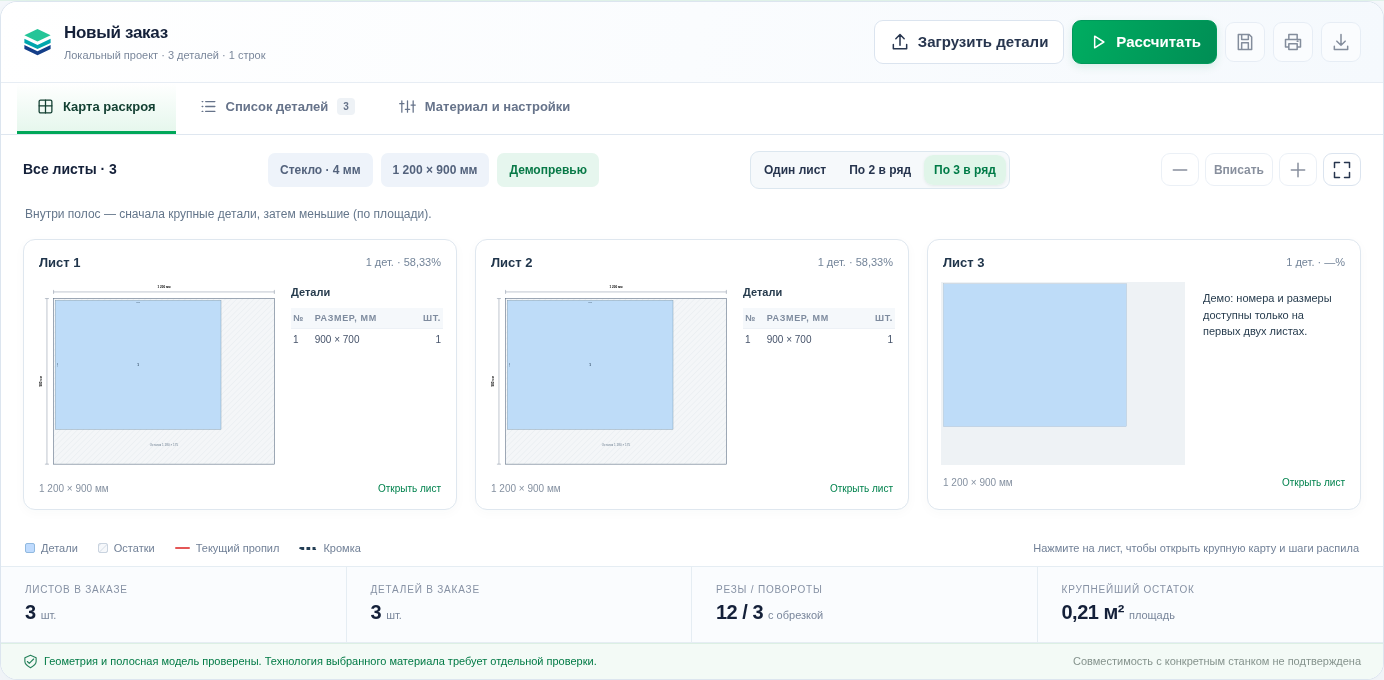
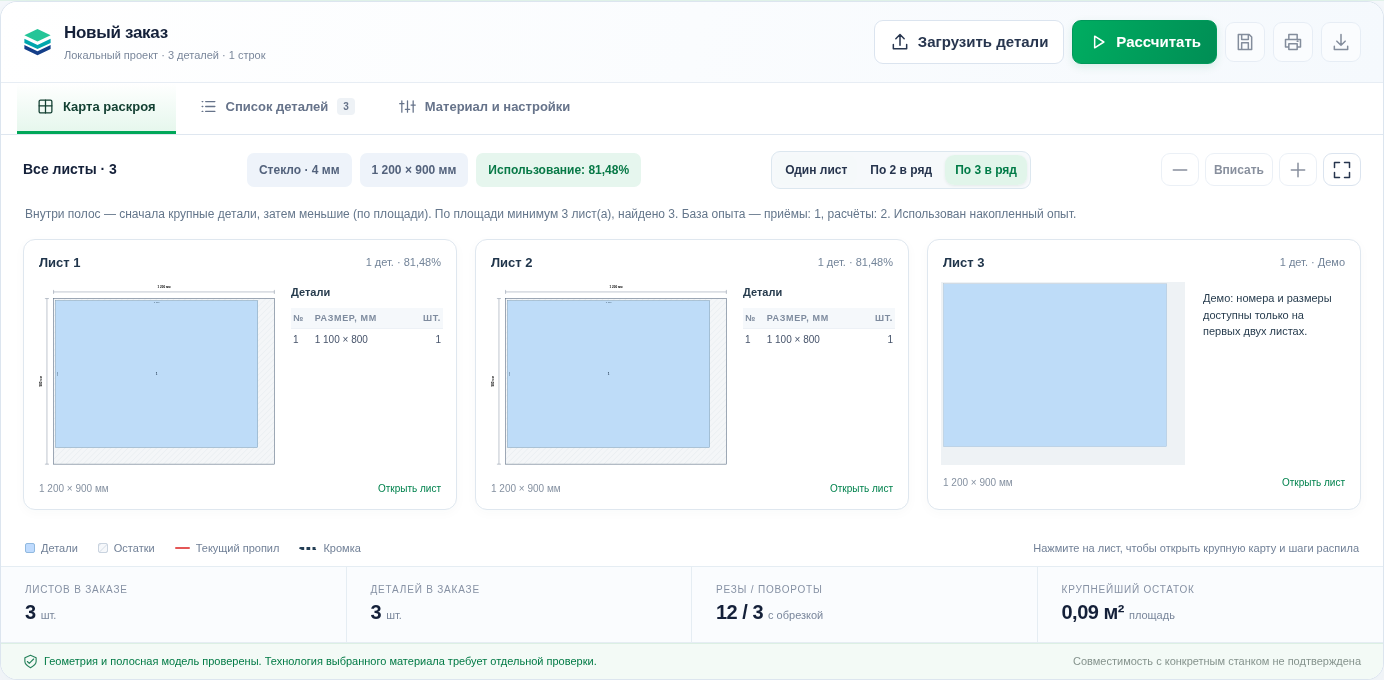
Add local verified experience books, transferable search moves and training scripts

diff --git a/listpro-core/web/index.html b/listpro-core/web/index.html
@@ -345,6 +345,83 @@ function pack(p,options={}){
 module.exports={pack,checkInput};
 
 },
+"src/cutting-experience.js":function(module,exports,require){
+'use strict';
+const {fromTree,buildRawLayout}=require('./deferred-strip-patterns'),{verifyDeferred}=require('./deferred-strip-search'),{estimateSheets}=require('./sheet-area-estimate'),{searchDeferredMargins}=require('./deferred-margin-search');
+const VERSION=1,PROFILE='deferred-held-strip-v1';
+const empty=()=>({version:VERSION,profile:PROFILE,solves:0,patterns:[],recipes:[],books:[]});
+function features(p){const area=(p.sheetW-2*p.trim)*(p.sheetH-2*p.trim),n=p.pieces.reduce((s,a)=>s+a.q,0);return [p.sheetW/p.sheetH,n,p.pieces.reduce((s,a)=>s+a.l*a.w*a.q,0)/area, p.pieces.reduce((s,a)=>s+Math.max(a.l/a.w,a.w/a.l)*a.q,0)/n];}
+function similarity(a,b){return a.reduce((s,v,i)=>s+Math.abs(v-b[i])/Math.max(1,Math.abs(v),Math.abs(b[i])),0)/a.length;}
+function safePattern(n,depth=0,counter={n:0}){
+ if(!n||depth>32||++counter.n>10000)throw Error('Invalid experience pattern');
+ if(n.leaf){if(![n.l,n.w].every(x=>Number.isFinite(x)&&x>0&&x<=20000)||typeof n.rotated!=='boolean')throw Error('Invalid experience leaf');return {leaf:true,l:n.l,w:n.w,rotated:n.rotated};}
+ if(!['H','V'].includes(n.axis)||!Array.isArray(n.children)||!n.children.length||n.children.length>2500)throw Error('Invalid experience branch');
+ return {axis:n.axis,children:n.children.map(c=>safePattern(c,depth+1,counter))};
+}
+function normalize(value){
+ if(!value||value.version!==VERSION||value.profile!==PROFILE)return empty();
+ const bank=empty();bank.solves=Number.isSafeInteger(value.solves)&&value.solves>=0?value.solves:0;
+ for(const r of (Array.isArray(value.patterns)?value.patterns:[]).slice(0,128))try{const pattern=safePattern(r.pattern);bank.patterns.push({pattern,uses:Math.min(1000000,Math.max(1,Number(r.uses)||1))});}catch{}
+ bank.recipes=(Array.isArray(value.recipes)?value.recipes:[]).filter(r=>r.move==='wide-48'&&Array.isArray(r.features)&&r.features.length===4&&r.features.every(Number.isFinite)).slice(0,64).map(r=>({move:r.move,features:r.features,uses:Math.max(1,Number(r.uses)||1)}));
+ for(const b of (Array.isArray(value.books)?value.books:[]).slice(0,16))try{if(!Array.isArray(b.patterns)||b.patterns.length>64)continue;bank.books.push({patterns:b.patterns.map(p=>safePattern(p))});}catch{}
+ return bank;
+}
+function patternsOf(p,result){return result.sheets.map(sh=>fromTree(sh.tree,p.kerf));}
+function remember(bank,p,result){
+ // Recompile and replay before admitting any move into the database.
+ const raw=patternsOf(p,result);verifyDeferred(p,buildRawLayout(p,raw));const next=normalize(bank);next.solves++;
+ function encode(n){if(n.part){const a=p.pieces.find(a=>a.id===n.part.id);return{leaf:true,l:a.l,w:a.w,rotated:!!n.part.rotated};}return{axis:n.axis,children:n.children.map(encode)};}
+ for(const n of raw){const pattern=encode(n),key=JSON.stringify(pattern),old=next.patterns.find(r=>JSON.stringify(r.pattern)===key);if(old)old.uses++;else next.patterns.push({pattern,uses:1});}
+ next.patterns.sort((a,b)=>b.uses-a.uses);next.patterns=next.patterns.slice(0,128);
+ if(result.learningMove==='wide-48'&&result.metrics.sheets===estimateSheets(p).minimumSheets){const f=features(p),old=next.recipes.find(r=>similarity(f,r.features)<.05);if(old)old.uses++;else next.recipes.push({move:'wide-48',features:f,uses:1});next.recipes.sort((a,b)=>b.uses-a.uses);next.recipes=next.recipes.slice(0,64);}
+ const book={patterns:raw.map(encode)},bookKey=JSON.stringify(book);next.books=next.books.filter(b=>JSON.stringify(b)!==bookKey);next.books.unshift(book);next.books=next.books.slice(0,16);
+ while(JSON.stringify(next).length>6*1024*1024&&(next.patterns.length>1||next.books.length>1)){if(next.books.length>1)next.books.pop();else next.patterns.pop();}
+ return next;
+}
+function score(r,objective){return objective==='cuts'?[r.metrics.sheets,r.metrics.cuts,r.metrics.turns,-r.metrics.largestWaste]:[r.metrics.sheets,-r.metrics.largestWaste,r.metrics.cuts,r.metrics.turns];}
+const better=(a,b)=>!b||a.some((v,i)=>v<b[i]&&a.slice(0,i).every((x,j)=>x===b[j]));
+function solveWithExperience(p,value,baseSolve,options={}){
+ const bank=normalize(value),objective=options.objective||'remnants',min=estimateSheets(p).minimumSheets,stats={patterns:bank.patterns.length,solves:bank.solves,matched:0,rejected:0,used:false,nearMatches:0,recipeUsed:false,booksMatched:0};let best=null;
+ const keep=r=>{if(better(score(r,objective),best&&score(best,objective)))best=r;};
+ const available=p.pieces.map(a=>a.q),prefix=[];
+ function bind(n,counts,near){if(!n.leaf)return {axis:n.axis,children:n.children.map(c=>bind(c,counts,near))};
+  const matches=p.pieces.map((a,i)=>({a,i,d:Math.abs(a.l/n.l-1)+Math.abs(a.w/n.w-1)})).filter(({a,i,d})=>counts[i]>0&&(!n.rotated||a.grain===false)&&(near?d<=.08:d<1e-10)).sort((a,b)=>a.d-b.d);
+  if(!matches.length)throw Error('No matching physical part');const {a,i,d}=matches[0];counts[i]--;if(d>1e-10)stats.nearMatches++;return {part:{id:a.id,rotated:n.rotated},w:n.rotated?a.w:a.l,h:n.rotated?a.l:a.w};
+ }
+ function finish(r){stats.used=!!r.experienceOrigin;r.sheetEstimate=estimateSheets(p,r.metrics.sheets);r.experienceInfo=stats;return r;}
+ function candidate(patterns,counts){
+  const sub={...p,pieces:p.pieces.map((a,i)=>({...a,q:counts[i]})).filter(a=>a.q)};let tail=[];
+  if(sub.pieces.length){const remaining=baseSolve(sub,{iterations:Math.min(options.iterations||100,30),examples:[]});tail=patternsOf(remaining.parameters,remaining);const rebind=n=>{if(n.part)n.part.id=sub.pieces[n.part.id-1].id;else n.children.forEach(rebind);};tail.forEach(rebind);}
+  const r=verifyDeferred(p,buildRawLayout(p,[...patterns,...tail]));r.learningMove='stored-strip-tree';r.experienceOrigin=true;keep(r);
+ }
+ // A complete opening book preserves combinations between complementary sheets.
+ // It avoids greedily using a common pattern twice and starving another sheet.
+ for(const book of bank.books)for(const near of [false,true]){
+  const counts=p.pieces.map(a=>a.q);try{const patterns=book.patterns.map(n=>bind(n,counts,near));candidate(patterns,counts);stats.booksMatched++;break;}catch{stats.rejected++;}
+ }
+ if(best&&best.metrics.sheets===min&&!options.forceSearch)return finish(best);
+ // Prefer exact openings, then try the same tree with nearby actual dimensions.
+ for(const near of [false,true])for(const rec of bank.patterns){
+  for(let repeats=0;repeats<2500;repeats++){
+   const counts=available.slice();let pattern;try{pattern=bind(rec.pattern,counts,near);}catch{break;}
+   const sub={...p,pieces:p.pieces.map((a,i)=>({...a,q:available[i]-counts[i]})).filter(a=>a.q)};
+   try{verifyDeferred(sub,buildRawLayout(sub,[pattern]));}catch{stats.rejected++;break;}
+   prefix.push(pattern);available.splice(0,available.length,...counts);stats.matched++;
+  }
+ }
+ if(prefix.length)try{
+  const sub={...p,pieces:p.pieces.map((a,i)=>({...a,q:available[i]})).filter(a=>a.q)};
+  let tail=[];if(sub.pieces.length){const remaining=baseSolve(sub,{iterations:Math.min(options.iterations||100,30),examples:[]});tail=patternsOf(remaining.parameters,remaining);const rebind=n=>{if(n.part)n.part.id=sub.pieces[n.part.id-1].id;else n.children.forEach(rebind);};tail.forEach(rebind);}
+  const r=verifyDeferred(p,buildRawLayout(p,[...prefix,...tail]));r.learningMove='stored-strip-tree';r.experienceOrigin=true;keep(r);
+ }catch{stats.rejected++;}
+ const recipe=bank.recipes.find(r=>similarity(features(p),r.features)<.2);
+ if((!best||best.metrics.sheets>min)&&recipe){stats.recipeUsed=true;options.progress?.({text:'База опыта: пробуем ранее удачный широкий перебор полос',percent:5});searchDeferredMargins(p,{seed:options.seed??42,iterations:options.iterations||100,candidates:48,accept:r=>{r.learningMove='wide-48';r.experienceOrigin=true;keep(r);}});}
+ if(!best||best.metrics.sheets>min||options.forceSearch)keep(baseSolve(p,options));
+ if(!best)throw Error('No accepted cutting plan');return finish(best);
+}
+module.exports={empty,normalize,remember,solveWithExperience,VERSION,PROFILE};
+
+},
 "src/deferred-margin-search.js":function(module,exports,require){
 'use strict';
 const {estimateSheets}=require('./sheet-area-estimate');
@@ -1907,11 +1984,13 @@ module.exports={validate};
 },
 "web/engine.cjs":function(module,exports,require){
 'use strict';
+const {solveWithExperience}=require('../src/cutting-experience');
 const {searchDominantStrips}=require('../src/dominant-strip-search');
 const {estimateSheets}=require('../src/sheet-area-estimate');
 const {searchDeferredMargins}=require('../src/deferred-margin-search');
 const {checkInput}=require('../src/core');
-const {arrange}=require('../src/ordered-strip-layout');
+const {arrange:arrangeLayout}=require('../src/ordered-strip-layout');
+function arrange(result,mode){return {...arrangeLayout(result,mode),sheetEstimate:result.sheetEstimate,experienceInfo:result.experienceInfo,learningMove:result.learningMove};}
 const {collect}=require('../src/pss-waste-local');
 const {searchAdaptive,repackAdaptive}=require('../src/adaptive-held-strip');
 const {solveIdenticalTwoSheets}=require('../src/identical-strip-patterns');
@@ -1936,14 +2015,14 @@ function verify(p,layout,axis){
  return{...s,parameters:p,equipmentProfile:pr,plan,verification,metrics:verification.metrics};
 }
 function equalOrder(a,b){return ['sheetW','sheetH','kerf','trim'].every(k=>a[k]===b[k])&&a.pieces.length===b.pieces.length&&a.pieces.every((p,i)=>['l','w','q','grain'].every(k=>p[k]===b.pieces[i][k]));}
-function solve(input,{objective='remnants',iterations=100,seed=42,examples=[],progress=()=>{}}={}){
+function solveBase(input,{objective='remnants',iterations=100,seed=42,examples=[],progress=()=>{}}={}){
  const p=clean(input);if(!['remnants','cuts'].includes(objective))throw Error('Неизвестная цель расчёта.');
  if(!Number.isInteger(iterations)||iterations<1||iterations>100)throw Error('Бюджет поиска: 1–100.');
  const started=Date.now(),bases=[],trials=[],patternBases=[];let best=null,lastError='';
  const score=s=>objective==='remnants'?[s.metrics.sheets,-s.metrics.largestWaste,s.metrics.cuts,s.metrics.turns]:[s.metrics.sheets,s.metrics.cuts,s.metrics.turns,-s.metrics.largestWaste];
  const keep=s=>{s.sheetEstimate=estimateSheets(p,s.metrics.sheets);const a=score(s),b=best&&score(best);if(!b||a.some((v,i)=>v<b[i]&&a.slice(0,i).every((x,j)=>x===b[j])))best=s;};
  for(const e of examples)if(equalOrder(p,clean(e.parameters))){const s=verify(p,e.layout);keep(s);patternBases.push(s);}
- const improve=()=>{if(best&&best.metrics.sheets>estimateSheets(p).minimumSheets){progress({text:'По площади минимум '+estimateSheets(p).minimumSheets+' листов. Перестраиваем весь заказ с отложенной обрезкой',percent:90});const extra=searchDeferredMargins(p,{iterations,seed,accept:keep});patternBases.push(...extra.layouts);trials.push(extra.stats);if(best.metrics.sheets>estimateSheets(p).minimumSheets){progress({text:'Группируем повторяющиеся длинные детали и заполняем соседние полосы',percent:92});const grouped=searchDominantStrips(p,{iterations,seed,accept:keep});patternBases.push(...grouped.layouts);trials.push(grouped.stats);}if(best.metrics.sheets>estimateSheets(p).minimumSheets){progress({text:'Расширяем перебор размеров первичных полос до 48 кандидатов',percent:93});const wide=searchDeferredMargins(p,{iterations,seed,candidates:48,accept:keep});patternBases.push(...wide.layouts);trials.push(wide.stats);}}progress({text:'Проверяем торцовку и смешанные направления листов',percent:94});const t=optimizeDeferred(p,patternBases,{objective,seed,accept:keep});trials.push(t.stats);};
+ const improve=()=>{if(best&&best.metrics.sheets>estimateSheets(p).minimumSheets){progress({text:'По площади минимум '+estimateSheets(p).minimumSheets+' листов. Перестраиваем весь заказ с отложенной обрезкой',percent:90});const extra=searchDeferredMargins(p,{iterations,seed,accept:keep});patternBases.push(...extra.layouts);trials.push(extra.stats);if(best.metrics.sheets>estimateSheets(p).minimumSheets){progress({text:'Группируем повторяющиеся длинные детали и заполняем соседние полосы',percent:92});const grouped=searchDominantStrips(p,{iterations,seed,accept:keep});patternBases.push(...grouped.layouts);trials.push(grouped.stats);}if(best.metrics.sheets>estimateSheets(p).minimumSheets){progress({text:'Расширяем перебор размеров первичных полос до 48 кандидатов',percent:93});const wide=searchDeferredMargins(p,{iterations,seed,candidates:48,accept:s=>{s.learningMove='wide-48';keep(s);}});patternBases.push(...wide.layouts);trials.push(wide.stats);}}progress({text:'Проверяем торцовку и смешанные направления листов',percent:94});const t=optimizeDeferred(p,patternBases,{objective,seed,accept:keep});trials.push(t.stats);};
  progress({text:'Проверяем детали и допустимые полосы',percent:5});
  if(p.pieces.length===1){try{
   const r=solveIdenticalTwoSheets(p,profile('H')),chosen=objective==='remnants'?r.remnantBest:r.cutsBest;
@@ -1975,6 +2054,7 @@ function solve(input,{objective='remnants',iterations=100,seed=42,examples=[],pr
  best.search={objective,seed,iterations,trials,elapsedMs:Date.now()-started,optimality:'not proven'};
  return best;
 }
+function solve(input,options={}){if(!options.experience)return solveBase(input,options);return solveWithExperience(clean(input),options.experience,(p,extra)=>solveBase(p,{...options,...extra}),options);}
 module.exports={clean,verify,solve,equalOrder,arrange};
 
 }};
@@ -2168,7 +2248,7 @@ const engine=load("web/engine.cjs");self.onmessage=({data:m})=>{try{let result;i
  }
  function renderResult(){
   const has=!!result,order=result?.ordering;
-  $('orderHint').textContent=!has?'':order?.mode==='optimized'?'Порядок деталей выбран оптимизатором.':order?.applied===false?'Сохранён прежний порядок: сортировка этой карты не прошла технологическую проверку.':order?.exceptions?.length?'Крупные детали сначала. В '+order.exceptions.length+' группах последняя деталь оставлена для завершения распуска.':'Внутри полос — сначала крупные детали, затем меньшие (по площади).';if(result?.sheetEstimate){const e=result.sheetEstimate;$('orderHint').textContent+=' По площади минимум '+e.minimumSheets+' лист(а), найдено '+e.foundSheets+'.'+(e.gap>0?' Меньшее число листов в этом поиске не найдено.':'');}['print','export','prevSheet','nextSheet','prevOp','nextOp','opRange','exportOps','zoomIn','zoomOut','fit'].forEach(id=>$(id).disabled=!has);
+  $('orderHint').textContent=!has?'':order?.mode==='optimized'?'Порядок деталей выбран оптимизатором.':order?.applied===false?'Сохранён прежний порядок: сортировка этой карты не прошла технологическую проверку.':order?.exceptions?.length?'Крупные детали сначала. В '+order.exceptions.length+' группах последняя деталь оставлена для завершения распуска.':'Внутри полос — сначала крупные детали, затем меньшие (по площади).';if(result?.sheetEstimate){const e=result.sheetEstimate;$('orderHint').textContent+=' По площади минимум '+e.minimumSheets+' лист(а), найдено '+e.foundSheets+'.'+(e.gap>0?' Меньшее число листов в этом поиске не найдено.':'');}if(result?.experienceInfo){const e=result.experienceInfo;$('orderHint').textContent+=' База опыта — приёмы: '+e.patterns+', расчёты: '+e.solves+'.'+(e.used?' Использован накопленный опыт.':'')+(e.saved===false?' Изменения базы не сохранены.':'');}['print','export','prevSheet','nextSheet','prevOp','nextOp','opRange','exportOps','zoomIn','zoomOut','fit'].forEach(id=>$(id).disabled=!has);
   if(!has){['statSheets','statParts','statCuts','statRemnant','sheetLabel','usageBadge'].forEach(id=>$(id).textContent='—');$('sheetTabs').innerHTML='';$('remnantsBody').innerHTML='';$('operationsBody').innerHTML='';$('remnantTotal').textContent='Нет рассчитанной карты';draw();return;}
   const m=result.metrics;$('statSheets').textContent=m.sheets;$('statParts').textContent=result.partCount;$('statCuts').textContent=m.cuts+' / '+m.turns;$('statRemnant').textContent=fmt(m.largestWaste/1e6)+' м²';
   const remnants=result.sheets.flatMap((s,i)=>s.remnants.map(r=>({...r,sheet:i}))).sort((a,b)=>b.area-a.area);

diff --git a/listpro-core/src/cutting-experience.js b/listpro-core/src/cutting-experience.js
@@ -1,0 +1,74 @@
+'use strict';
+const {fromTree,buildRawLayout}=require('./deferred-strip-patterns'),{verifyDeferred}=require('./deferred-strip-search'),{estimateSheets}=require('./sheet-area-estimate'),{searchDeferredMargins}=require('./deferred-margin-search');
+const VERSION=1,PROFILE='deferred-held-strip-v1';
+const empty=()=>({version:VERSION,profile:PROFILE,solves:0,patterns:[],recipes:[],books:[]});
+function features(p){const area=(p.sheetW-2*p.trim)*(p.sheetH-2*p.trim),n=p.pieces.reduce((s,a)=>s+a.q,0);return [p.sheetW/p.sheetH,n,p.pieces.reduce((s,a)=>s+a.l*a.w*a.q,0)/area, p.pieces.reduce((s,a)=>s+Math.max(a.l/a.w,a.w/a.l)*a.q,0)/n];}
+function similarity(a,b){return a.reduce((s,v,i)=>s+Math.abs(v-b[i])/Math.max(1,Math.abs(v),Math.abs(b[i])),0)/a.length;}
+function safePattern(n,depth=0,counter={n:0}){
+ if(!n||depth>32||++counter.n>10000)throw Error('Invalid experience pattern');
+ if(n.leaf){if(![n.l,n.w].every(x=>Number.isFinite(x)&&x>0&&x<=20000)||typeof n.rotated!=='boolean')throw Error('Invalid experience leaf');return {leaf:true,l:n.l,w:n.w,rotated:n.rotated};}
+ if(!['H','V'].includes(n.axis)||!Array.isArray(n.children)||!n.children.length||n.children.length>2500)throw Error('Invalid experience branch');
+ return {axis:n.axis,children:n.children.map(c=>safePattern(c,depth+1,counter))};
+}
+function normalize(value){
+ if(!value||value.version!==VERSION||value.profile!==PROFILE)return empty();
+ const bank=empty();bank.solves=Number.isSafeInteger(value.solves)&&value.solves>=0?value.solves:0;
+ for(const r of (Array.isArray(value.patterns)?value.patterns:[]).slice(0,128))try{const pattern=safePattern(r.pattern);bank.patterns.push({pattern,uses:Math.min(1000000,Math.max(1,Number(r.uses)||1))});}catch{}
+ bank.recipes=(Array.isArray(value.recipes)?value.recipes:[]).filter(r=>r.move==='wide-48'&&Array.isArray(r.features)&&r.features.length===4&&r.features.every(Number.isFinite)).slice(0,64).map(r=>({move:r.move,features:r.features,uses:Math.max(1,Number(r.uses)||1)}));
+ for(const b of (Array.isArray(value.books)?value.books:[]).slice(0,16))try{if(!Array.isArray(b.patterns)||b.patterns.length>64)continue;bank.books.push({patterns:b.patterns.map(p=>safePattern(p))});}catch{}
+ return bank;
+}
+function patternsOf(p,result){return result.sheets.map(sh=>fromTree(sh.tree,p.kerf));}
+function remember(bank,p,result){
+ // Recompile and replay before admitting any move into the database.
+ const raw=patternsOf(p,result);verifyDeferred(p,buildRawLayout(p,raw));const next=normalize(bank);next.solves++;
+ function encode(n){if(n.part){const a=p.pieces.find(a=>a.id===n.part.id);return{leaf:true,l:a.l,w:a.w,rotated:!!n.part.rotated};}return{axis:n.axis,children:n.children.map(encode)};}
+ for(const n of raw){const pattern=encode(n),key=JSON.stringify(pattern),old=next.patterns.find(r=>JSON.stringify(r.pattern)===key);if(old)old.uses++;else next.patterns.push({pattern,uses:1});}
+ next.patterns.sort((a,b)=>b.uses-a.uses);next.patterns=next.patterns.slice(0,128);
+ if(result.learningMove==='wide-48'&&result.metrics.sheets===estimateSheets(p).minimumSheets){const f=features(p),old=next.recipes.find(r=>similarity(f,r.features)<.05);if(old)old.uses++;else next.recipes.push({move:'wide-48',features:f,uses:1});next.recipes.sort((a,b)=>b.uses-a.uses);next.recipes=next.recipes.slice(0,64);}
+ const book={patterns:raw.map(encode)},bookKey=JSON.stringify(book);next.books=next.books.filter(b=>JSON.stringify(b)!==bookKey);next.books.unshift(book);next.books=next.books.slice(0,16);
+ while(JSON.stringify(next).length>6*1024*1024&&(next.patterns.length>1||next.books.length>1)){if(next.books.length>1)next.books.pop();else next.patterns.pop();}
+ return next;
+}
+function score(r,objective){return objective==='cuts'?[r.metrics.sheets,r.metrics.cuts,r.metrics.turns,-r.metrics.largestWaste]:[r.metrics.sheets,-r.metrics.largestWaste,r.metrics.cuts,r.metrics.turns];}
+const better=(a,b)=>!b||a.some((v,i)=>v<b[i]&&a.slice(0,i).every((x,j)=>x===b[j]));
+function solveWithExperience(p,value,baseSolve,options={}){
+ const bank=normalize(value),objective=options.objective||'remnants',min=estimateSheets(p).minimumSheets,stats={patterns:bank.patterns.length,solves:bank.solves,matched:0,rejected:0,used:false,nearMatches:0,recipeUsed:false,booksMatched:0};let best=null;
+ const keep=r=>{if(better(score(r,objective),best&&score(best,objective)))best=r;};
+ const available=p.pieces.map(a=>a.q),prefix=[];
+ function bind(n,counts,near){if(!n.leaf)return {axis:n.axis,children:n.children.map(c=>bind(c,counts,near))};
+  const matches=p.pieces.map((a,i)=>({a,i,d:Math.abs(a.l/n.l-1)+Math.abs(a.w/n.w-1)})).filter(({a,i,d})=>counts[i]>0&&(!n.rotated||a.grain===false)&&(near?d<=.08:d<1e-10)).sort((a,b)=>a.d-b.d);
+  if(!matches.length)throw Error('No matching physical part');const {a,i,d}=matches[0];counts[i]--;if(d>1e-10)stats.nearMatches++;return {part:{id:a.id,rotated:n.rotated},w:n.rotated?a.w:a.l,h:n.rotated?a.l:a.w};
+ }
+ function finish(r){stats.used=!!r.experienceOrigin;r.sheetEstimate=estimateSheets(p,r.metrics.sheets);r.experienceInfo=stats;return r;}
+ function candidate(patterns,counts){
+  const sub={...p,pieces:p.pieces.map((a,i)=>({...a,q:counts[i]})).filter(a=>a.q)};let tail=[];
+  if(sub.pieces.length){const remaining=baseSolve(sub,{iterations:Math.min(options.iterations||100,30),examples:[]});tail=patternsOf(remaining.parameters,remaining);const rebind=n=>{if(n.part)n.part.id=sub.pieces[n.part.id-1].id;else n.children.forEach(rebind);};tail.forEach(rebind);}
+  const r=verifyDeferred(p,buildRawLayout(p,[...patterns,...tail]));r.learningMove='stored-strip-tree';r.experienceOrigin=true;keep(r);
+ }
+ // A complete opening book preserves combinations between complementary sheets.
+ // It avoids greedily using a common pattern twice and starving another sheet.
+ for(const book of bank.books)for(const near of [false,true]){
+  const counts=p.pieces.map(a=>a.q);try{const patterns=book.patterns.map(n=>bind(n,counts,near));candidate(patterns,counts);stats.booksMatched++;break;}catch{stats.rejected++;}
+ }
+ if(best&&best.metrics.sheets===min&&!options.forceSearch)return finish(best);
+ // Prefer exact openings, then try the same tree with nearby actual dimensions.
+ for(const near of [false,true])for(const rec of bank.patterns){
+  for(let repeats=0;repeats<2500;repeats++){
+   const counts=available.slice();let pattern;try{pattern=bind(rec.pattern,counts,near);}catch{break;}
+   const sub={...p,pieces:p.pieces.map((a,i)=>({...a,q:available[i]-counts[i]})).filter(a=>a.q)};
+   try{verifyDeferred(sub,buildRawLayout(sub,[pattern]));}catch{stats.rejected++;break;}
+   prefix.push(pattern);available.splice(0,available.length,...counts);stats.matched++;
+  }
+ }
+ if(prefix.length)try{
+  const sub={...p,pieces:p.pieces.map((a,i)=>({...a,q:available[i]})).filter(a=>a.q)};
+  let tail=[];if(sub.pieces.length){const remaining=baseSolve(sub,{iterations:Math.min(options.iterations||100,30),examples:[]});tail=patternsOf(remaining.parameters,remaining);const rebind=n=>{if(n.part)n.part.id=sub.pieces[n.part.id-1].id;else n.children.forEach(rebind);};tail.forEach(rebind);}
+  const r=verifyDeferred(p,buildRawLayout(p,[...prefix,...tail]));r.learningMove='stored-strip-tree';r.experienceOrigin=true;keep(r);
+ }catch{stats.rejected++;}
+ const recipe=bank.recipes.find(r=>similarity(features(p),r.features)<.2);
+ if((!best||best.metrics.sheets>min)&&recipe){stats.recipeUsed=true;options.progress?.({text:'База опыта: пробуем ранее удачный широкий перебор полос',percent:5});searchDeferredMargins(p,{seed:options.seed??42,iterations:options.iterations||100,candidates:48,accept:r=>{r.learningMove='wide-48';r.experienceOrigin=true;keep(r);}});}
+ if(!best||best.metrics.sheets>min||options.forceSearch)keep(baseSolve(p,options));
+ if(!best)throw Error('No accepted cutting plan');return finish(best);
+}
+module.exports={empty,normalize,remember,solveWithExperience,VERSION,PROFILE};

diff --git a/listpro-core/tests/cutting-experience.test.js b/listpro-core/tests/cutting-experience.test.js
@@ -1,0 +1,13 @@
+'use strict';
+const test=require('node:test'),assert=require('node:assert/strict'),fs=require('node:fs'),os=require('node:os'),path=require('node:path');
+const engine=require('../web/engine.cjs'),m=require('../src/cutting-experience'),{read,update}=require('../desktop-demo/experience-store.cjs');
+const order=(l=400,w=300,q=4)=>({sheetW:1200,sheetH:900,trim:10,kerf:5,pieces:[{id:1,l,w,q,grain:false}]});
+function seed(){const p=order(),r=engine.solve(p,{iterations:4,seed:42});return {p,r,bank:m.remember(m.empty(),r.parameters,r)};}
+test('learned strip opening is reused on changed dimensions, with current IDs and fresh replay',()=>{const {bank}=seed(),p=order(401,301);const result=engine.solve(p,{experience:bank,iterations:4});assert.equal(result.metrics.sheets,1);assert.equal(result.experienceInfo.used,true);assert(result.experienceInfo.nearMatches>0);assert(result.sheets[0].parts.every(a=>a.w===401&&a.h===301||a.w===301&&a.h===401));assert.equal(result.sheetEstimate.foundSheets,1);assert.equal(engine.arrange(result,'descending').experienceInfo.used,true);});
+test('relearning deduplicates openings and does not store project names, IDs or ready sheet coordinates',()=>{const {bank,p,r}=seed();const next=m.remember(bank,p,r);assert.equal(next.patterns.length,bank.patterns.length);assert.equal(next.solves,2);const text=JSON.stringify(next);assert(!text.includes('instance'));assert(!text.includes('"id"'));assert(!text.includes('"x"'));assert(!text.includes('plan'));});
+test('incompatible sizes or texture cannot bypass new-order geometry and grain rules',()=>{const {bank}=seed();const p=order(700,800,2);p.pieces[0].grain=true;const r=engine.solve(p,{experience:bank,iterations:4});assert.equal(r.partCount,2);assert(r.sheets.flatMap(s=>s.parts).every(a=>!a.rotated));assert.equal(r.experienceInfo.used,false);});
+test('invalid, oversized, future-version and malformed records cannot become executable moves',()=>{assert.deepEqual(m.normalize({version:99}),m.empty());const b=m.empty();b.patterns=[{pattern:{axis:'Z',children:[]}}];assert.equal(m.normalize(b).patterns.length,0);const {bank}=seed();bank.patterns[0].pattern={leaf:true,l:NaN,w:3,rotated:false};assert.equal(m.normalize(bank).patterns.length,0);});
+test('disk updates merge latest bank and preserve the prior database when admission fails',()=>{const dir=fs.mkdtempSync(path.join(os.tmpdir(),'listpro-experience-')),file=path.join(dir,'memory.json');try{const {p,r}=seed();update(file,b=>m.remember(b,p,r));update(file,b=>m.remember(b,p,r));assert.equal(read(file).solves,2);const before=fs.readFileSync(file,'utf8');assert.throws(()=>update(file,()=>{throw Error('failed replay');}));assert.equal(fs.readFileSync(file,'utf8'),before);assert(!fs.existsSync(file+'.lock'));}finally{fs.rmSync(dir,{recursive:true,force:true});}});
+test('a successful broad-search move transfers to a nearby different order without stored patterns',()=>{const {p,r}=seed();r.learningMove='wide-48';const bank=m.remember(m.empty(),p,r);bank.patterns=[];bank.books=[];const result=engine.solve(order(401,301),{experience:bank,iterations:4});assert.equal(result.metrics.sheets,1);assert.equal(result.experienceInfo.recipeUsed,true);assert.equal(result.experienceInfo.used,true);});
+test('an inappropriate learned opening is replaced by a better fresh search',()=>{const {bank}=seed();const result=engine.solve(order(395,285,6),{experience:bank,iterations:4});assert.equal(result.metrics.sheets,1);assert.equal(result.experienceInfo.used,false);assert(result.experienceInfo.matched>0);});
+test('partial openings rebind remainder IDs and do not confuse different order rows',()=>{const {bank}=seed(),p=order();p.pieces.push({id:2,l:100,w:100,q:2,grain:false});const result=engine.solve(p,{experience:bank,iterations:4});assert.equal(result.partCount,6);assert.equal(result.experienceInfo.rejected,0);assert.equal(result.sheets.flatMap(s=>s.parts).filter(a=>a.id===2).length,2);});

diff --git a/listpro-core/web/app.js b/listpro-core/web/app.js
@@ -139,7 +139,7 @@
  }
  function renderResult(){
   const has=!!result,order=result?.ordering;
-  $('orderHint').textContent=!has?'':order?.mode==='optimized'?'Порядок деталей выбран оптимизатором.':order?.applied===false?'Сохранён прежний порядок: сортировка этой карты не прошла технологическую проверку.':order?.exceptions?.length?'Крупные детали сначала. В '+order.exceptions.length+' группах последняя деталь оставлена для завершения распуска.':'Внутри полос — сначала крупные детали, затем меньшие (по площади).';if(result?.sheetEstimate){const e=result.sheetEstimate;$('orderHint').textContent+=' По площади минимум '+e.minimumSheets+' лист(а), найдено '+e.foundSheets+'.'+(e.gap>0?' Меньшее число листов в этом поиске не найдено.':'');}['print','export','prevSheet','nextSheet','prevOp','nextOp','opRange','exportOps','zoomIn','zoomOut','fit'].forEach(id=>$(id).disabled=!has);
+  $('orderHint').textContent=!has?'':order?.mode==='optimized'?'Порядок деталей выбран оптимизатором.':order?.applied===false?'Сохранён прежний порядок: сортировка этой карты не прошла технологическую проверку.':order?.exceptions?.length?'Крупные детали сначала. В '+order.exceptions.length+' группах последняя деталь оставлена для завершения распуска.':'Внутри полос — сначала крупные детали, затем меньшие (по площади).';if(result?.sheetEstimate){const e=result.sheetEstimate;$('orderHint').textContent+=' По площади минимум '+e.minimumSheets+' лист(а), найдено '+e.foundSheets+'.'+(e.gap>0?' Меньшее число листов в этом поиске не найдено.':'');}if(result?.experienceInfo){const e=result.experienceInfo;$('orderHint').textContent+=' База опыта — приёмы: '+e.patterns+', расчёты: '+e.solves+'.'+(e.used?' Использован накопленный опыт.':'')+(e.saved===false?' Изменения базы не сохранены.':'');}['print','export','prevSheet','nextSheet','prevOp','nextOp','opRange','exportOps','zoomIn','zoomOut','fit'].forEach(id=>$(id).disabled=!has);
   if(!has){['statSheets','statParts','statCuts','statRemnant','sheetLabel','usageBadge'].forEach(id=>$(id).textContent='—');$('sheetTabs').innerHTML='';$('remnantsBody').innerHTML='';$('operationsBody').innerHTML='';$('remnantTotal').textContent='Нет рассчитанной карты';draw();return;}
   const m=result.metrics;$('statSheets').textContent=m.sheets;$('statParts').textContent=result.partCount;$('statCuts').textContent=m.cuts+' / '+m.turns;$('statRemnant').textContent=fmt(m.largestWaste/1e6)+' м²';
   const remnants=result.sheets.flatMap((s,i)=>s.remnants.map(r=>({...r,sheet:i}))).sort((a,b)=>b.area-a.area);

diff --git a/listpro-core/scripts/train-experience.js b/listpro-core/scripts/train-experience.js
@@ -1,0 +1,9 @@
+'use strict';
+const fs=require('node:fs'),path=require('node:path'),engine=require('../web/engine.cjs'),learning=require('../src/cutting-experience'),store=require('../desktop-demo/experience-store.cjs');
+const args=process.argv.slice(2),verified=args.includes('--verified-results');if(verified)args.splice(args.indexOf('--verified-results'),1);const roundArg=args.indexOf('--rounds');let rounds=1;
+if(roundArg>=0){rounds=Number(args[roundArg+1]);args.splice(roundArg,2);}if(!Number.isInteger(rounds)||rounds<1||rounds>100||args.length<2)throw Error('Usage: node scripts/train-experience.js <database.json> <order.json> [other orders.json] [--rounds 1..100]');
+const [file,...orders]=args;
+for(let round=0;round<rounds;round++)for(const order of orders){const raw=JSON.parse(fs.readFileSync(order,'utf8')),p=raw.project||raw.parameters||raw,bank=learning.normalize(store.read(file)),started=Date.now();
+ const result=verified?raw:engine.solve(p,{experience:bank,seed:42+round*97,iterations:100,forceSearch:true,objective:p.objective||'remnants'});
+ const next=store.update(file,fresh=>learning.remember(fresh,result.parameters,result));console.log(JSON.stringify({order:path.basename(order),round:round+1,sheets:result.metrics.sheets,cuts:result.metrics.cuts,turns:result.metrics.turns,patterns:next.patterns.length,recipes:next.recipes.length,solves:next.solves,elapsedMs:Date.now()-started}));
+}

diff --git a/listpro-core/benchmarks/experience/RESULTS.md b/listpro-core/benchmarks/experience/RESULTS.md
@@ -1,0 +1,46 @@
+# База проверенного опыта, версия 1
+
+Реализовано локальное накопление: деревья удачных полос, сочетания нескольких листов («дебюты»), статистика повторений и ранее успешный широкий перебор кандидатов. Это case-based learning / накопление опыта поиска, а не обучение весов нейросети.
+
+## Что действительно сохраняется
+
+- Анонимизированные деревья резов с размерами исходных деталей и разрешённой ориентацией; идентификаторы, экземпляры, названия проектов, координаты и полный журнал резов не сохраняются.
+- До 128 структур отдельных листов и до 16 сочетаний взаимодополняющих листов. Книга целого сочетания предотвращает жадное повторение одной полосы, которое лишает другую необходимых деталей.
+- До 64 рекомендаций широкого перебора для похожих по характеристикам заказов, частоты использования и число завершённых обучающих расчётов. Рекомендация записывается, если этот ход дал нижнюю границу числа листов.
+
+Хранилище: `experience-v1.json` в локальном каталоге данных Windows-приложения. Поставляемая программа не содержит этой базы, старых заказов или встроенных решений. Начальная форма всегда пуста. Обновления файла атомарные; запись использует блокировку и свежую версию базы. При ошибке доступа расчёт возвращается, а интерфейс сообщает, что изменения базы не сохранены. База ограничена по размеру; это не бесконечное сохранение всех расчётов.
+
+## Использование на новых заказах
+
+Сначала пробуются сохранённые сочетания; затем отдельные структуры. Идентификаторы и количества назначаются заново. Для похожих размеров разрешено пробное сопоставление: сумма относительных отклонений двух размеров до 8%. Это только эвристика допуска к проверке; реальные размеры никогда не округляются и не подменяются. Деревья пересчитываются с текущим пропилом, листом и обрезкой и проходят независимый replay. Текстура проверяется по новому заказу.
+
+Если найден проверенный результат на нижней границе по площади, обычный повторный расчёт может закончиться сразу. Минимальность числа резов не заявляется. Если опыт не подходит или остаётся лишний лист, запускается свежий поиск и сохраняется лучший результат по выбранному критерию. Обучающий скрипт `forceSearch` продолжает поиск даже при найденной нижней границе, меняя seed по раундам для поиска новых приёмов.
+
+## Скрипты
+
+```
+node scripts/train-experience.js /путь/experience-v1.json /путь/order.json --rounds 3
+```
+
+Новые заказы рассчитываются; победившие варианты заново компилируются/валидируются перед записью. Возможен приём уже проверенного JSON результата пользователя:
+
+```
+node scripts/train-experience.js /путь/experience-v1.json /путь/result.json --verified-results
+```
+
+Даже в этом режиме выполняется новый независимый replay: отметка «проверен» внутри файла не считается доказательством. Для чтения Windows-программой укажите её файл базы. Во время обучения не запускайте второй обучающий процесс на том же файле: занятая база отклоняет запись вместо перезаписи конкурентных изменений.
+
+## Фактическое испытание
+
+Скрипт принял ранее сохранённые результаты 128 и 171 детали после нового replay; создана отдельная экспериментальная база из 18 структур / 2 книг / 2 расчётов. Эта база **не включена в EXE** и не добавлена как встроенный пример.
+
+| Заказ | Свежий поиск ранее | Повтор с базой опыта | Результат |
+|---|---:|---:|---|
+| 128 деталей | 52 582 мс | 20 мс | 8 листов / 230 резов / 63 поворота |
+| 171 деталь | 106 916 мс | 16 мс | 10 листов / 338 резов / 114 поворотов |
+
+Это ускорение **повторного использования уже изученных решений**, а не ускорение поиска с нуля и не доказательство такого выигрыша на неизвестных заказах. Измерения зависят от машины. Машиночитаемые результаты: `replay.json`.
+
+Независимые тесты также проверили изменённые размеры 401×301 вместо 400×300, перенос приёма широкого поиска без готовых деревьев, невозможную текстуру/габариты, дедупликацию, перестановку идентификаторов остатка, сохранность базы при ошибке и замену неудачного опыта лучшим свежим решением. Chromium с настоящим worker подтвердил запись опыта и повторное использование при втором расчёте; пустой старт, скрытие карт после второй и блокировка печати/экспорта сохранены.
+
+Ограничения: это первая библиотека приёмов, не универсальный самообучающийся оптимизатор. Извлечение произвольных вложенных мотивов и самогенерация нового кода отсутствуют. Совместимость с реальным оборудованием не подтверждается базой опыта. Изменение технологической модели требует нового профиля/версии базы; неизвестные версии не исполняются.

diff --git a/listpro-core/desktop-demo/README.md b/listpro-core/desktop-demo/README.md
@@ -32,3 +32,9 @@ node scripts/build.cjs
 Существующий GitHub Actions `ListPro Desktop Windows` теперь собирает и запускает демоверсию на Windows. Артефакт `ListPro-Mebel-Windows-portable` содержит только демоверсию: `ListPro-Demo-0.1.0-win-x64.exe`. Изменения workflow не требуются; интеграция находится в `desktop/package.json`. Прежнюю полную версию можно отдельно собрать командой `npm run build:win:full` в `desktop`; в распространяемый демоартефакт она не включается.
 
 При проверке создаётся искусственный заказ 900×700, 3 шт. на листе 1200×900, материал «Стекло», толщина 4 мм: он не встроен в пользовательский интерфейс. Проверяются пустой старт, пустые поля новой строки, изменённые параметры, три листа, скрытие третьего, блокировка печати и экспорта.
+
+## Накопление опыта (0.2)
+
+После проверенного расчёта база опыта сохраняется локально. При следующем заказе программа сначала проверяет ранее удачные структуры на его настоящих деталях и параметрах. В строке над картой видны число приёмов и расчётов, а также факт использования накопленного опыта. Старые размеры не подставляются в форму; данные не отправляются на сервер.
+
+[Устройство, ограничения и испытания базы](../benchmarks/experience/RESULTS.md). Отдельный скрипт обучения: `node scripts/train-experience.js <database.json> <order.json> --rounds 3` из `listpro-core/`. Программа сохраняет прежние ограничения демоверсии.
